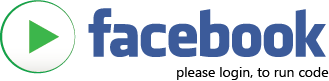
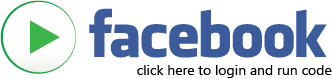
error fixing

diff --git a/app.js b/app.js
@@ -246,6 +246,10 @@ app.get('/logout', function(req, res) {
     }
 });
 
+app.get("/loading", function(req, res) {
+	res.send("Loading ...");
+});
+
 var handleLoginReturn = function(req, res) {
 
 	var recoverProjId = (req.session || {}).recoverProjId;
@@ -332,28 +336,6 @@ app.get('/user/:email', function(req, res, next) {
     });
 });
 
-app.get('/:id', function(req, res, next) {
-    //render user portal or ide
-
-    var projList = req.headers["x-vcap_projects"] ? req.headers["x-vcap_projects"].split(",") : [];
-    var isOwner = (projList.indexOf(req.params.id) >= 0);
-
-    AppChecker.activateApp(req.params.id, function(proj) {
-        if(proj && proj.getAuthorName() !== "Unknown") {
-	
-            Editor.getIndex(proj, isOwner, req.user, function(err, index) {
-                if(err) {
-                    console.log(err);
-                    res.send(500);
-                } else {
-                    res.end(index);
-                }
-            });
-        } else {
-            res.send(500);
-        }
-    });
-});
 
 app.post("/title/:projectId", function(req, res, next) {	
     var projList = req.headers["x-vcap_projects"] ? req.headers["x-vcap_projects"].split(",") : [];
@@ -470,16 +452,20 @@ app.get('/fork/:projectId', function(req, res, next) {
                     console.log(err);
                     res.send(500);
                 } else {
+			console.log(req.headers);
                     var projList = req.headers["x-vcap_projects"] ? req.headers["x-vcap_projects"].split(",") : [];
                     projList.push(proj.getId());
                     AppChecker.addActiveApp(proj);
-    		
+    		   // console.log(projList);	
                     res.setHeader("Set-Cookie", "INITME=," + projList.join(","));
                     res.writeHead(200);
+		    
                     res.end(JSON.stringify({
                         projectId : proj.getId(),
                         appUrl : proj.getUrl()
                     }));
+		    
+			console.log("ending");
                 }
             }
         });
@@ -493,24 +479,59 @@ app.get('/fork/:projectId', function(req, res, next) {
 
 });
 
-app.get('/php/:projectUrl', function(req, res, next) {
+app.get('/:id/*', function(req, res, next) {
     //render user portal or ide
 
     var projList = req.headers["x-vcap_projects"] ? req.headers["x-vcap_projects"].split(",") : [];
     var isOwner = (projList.indexOf(req.params.id) >= 0);
 
-    AppChecker.activateApp(req.params.projectUrl, function(proj) {
-        if(proj) {
-            Editor.getIndex(proj, isOwner, req.user, function(err, index) {
+    AppChecker.activateApp(req.params.id, function(proj) {
+        if(proj && proj.getAuthorName() !== "Unknown") {
+		
+	     if (req.url.indexOf(proj.getProjectUrl()) < 0) {
+		 res.redirect("/" + proj.getProjectUrl());
+	     }
+	     else {
+              Editor.getIndex(proj, isOwner, req.user, function(err, index) {
                 if(err) {
                     console.log(err);
-                    next(500);
+                    res.send(500);
                 } else {
                     res.end(index);
                 }
-            });
+              });
+	     }
         } else {
-            next(500);
+            res.send(500);
+        }
+    });
+});
+
+
+app.get('/:id', function(req, res, next) {
+    //render user portal or ide
+
+    var projList = req.headers["x-vcap_projects"] ? req.headers["x-vcap_projects"].split(",") : [];
+    var isOwner = (projList.indexOf(req.params.id) >= 0);
+
+    AppChecker.activateApp(req.params.id, function(proj) {
+        if(proj && proj.getAuthorName() !== "Unknown") {
+		
+	     if (req.url.indexOf(proj.getProjectUrl()) < 0) {
+		 res.redirect("/" + proj.getProjectUrl());
+	     }
+	     else {
+              Editor.getIndex(proj, isOwner, req.user, function(err, index) {
+                if(err) {
+                    console.log(err);
+                    res.send(500);
+                } else {
+                    res.end(index);
+                }
+              });
+	     }
+        } else {
+            res.send(500);
         }
     });
 });

diff --git a/view/editor.html b/view/editor.html
@@ -156,10 +156,10 @@ olark.identify('5621-433-10-9060');/*]]>{/literal}*/</script>
                     oauthSession = new document.FacebookOAuth();
                     $("body").bind("oauthLogin", function(e, token) {
 			   window.accessToken = token;
-			   $("#appFrame").attr("src", "http://" + document.appUrl + "/?token=" + window.accessToken);
                         projectSession.setState("active");
                     });
                     $("body").bind("oauthLogout", function(e) {
+			   $("#appFrame").attr("src", "http://" + document.domain + "/loading");
                         projectSession.setState("oauth");
                     });
                 } 
@@ -174,6 +174,7 @@ olark.identify('5621-433-10-9060');/*]]>{/literal}*/</script>
                     projectSession.setState("vmActive");
                 });
                 $("body").bind("vmDisconnected", function(e) {
+		      $("#appFrame").attr("src", "http://" + document.domain + "/loading");
                     projectSession.setState("vmInactive");
                 });
                 
@@ -464,7 +465,7 @@ olark.identify('5621-433-10-9060');/*]]>{/literal}*/</script>
                                 </div>
                             </div>
 				
-                            <iframe id="appFrame" width="100%" height="100%" frameBorder="0">
+                            <iframe id="appFrame" width="100%" height="100%" src="/loading" frameBorder="0">
                             </iframe>
                    		</div>
                         <div class="browser-south">

diff --git a/projects/Model.js b/projects/Model.js
@@ -18,9 +18,8 @@ function randomString(string_length, chars) {
 
 Project = new Schema({
   'projectId': {type: String, index: { unique: true }}, 
-  'projectTitle': {type: String}, 
+  'projectTitle': {type: String, validate: /^([a-z][\w]*[\s]?)+$/i}, 
   'subTitle': {type: String}, 
-  'projectUrl': {type: String, index: { unique: true }}, 
   'root': String, //where was this project cloned from?
   'namespace': String, //either null or userId
   'framework': String,
@@ -38,6 +37,10 @@ Project.virtual('path').get(function() {
 });
 
 
+Project.virtual('projectUrl').get(function() {
+  return (this.projectId + "/" + this.projectTitle.replace(/\s/gi, "-").toLowerCase());
+});
+
 Project.virtual('ideBase').get(function() {
   return this.projectId;   
 });
@@ -48,14 +51,14 @@ Project.virtual('ideBase').get(function() {
 
 Project.pre('save', function(next) {
     if (!this.projectId) {
-        this.projectId = randomString(2, "abcdefghiklmnopqrstuvwxyz") +  randomString(2, "abcdefghiklmnopqrstuvwxyz0123456789"); //TODO check for collisions
+        this.projectId = 1 + randomString(5, "0123456789"); //TODO check for collisions
 	 this.url = this.projectId + "." + config.projDomain;
     }
     if (!this.projectTitle) {
-	 this.projectTitle = this.projectId;
+	 this.projectTitle = "Untitled";
     }
-    if (!this.projectUrl) {
-	 this.projectUrl = this.projectId;
+    if (!this.subTitle) {
+	 this.projectTitle = "Please add a description";
     }
     next();
 });

diff --git a/checkapps.js b/checkapps.js
@@ -30,9 +30,6 @@ module.exports = {
     addActiveApp: function(proj) {
         proj.killProject = this.removeApp;
         activeApps[proj.getId()] = proj;
-        if (proj.getId() !== proj.getProjectUrl()) {
-            activeApps[proj.getProjectUrl()] = proj;
-        }
     },
 
 
@@ -43,11 +40,7 @@ module.exports = {
         }
         else {
             var params = {};
-            if (appName.length <= 5) {//id
-                params.projectId = appName;
-            } else {
-                params.projectUrl = appName;
-            }
+            params.projectId = appName;
             params.ready = function(err, model) {
                 if(err) {
                     cb(null);
@@ -64,9 +57,6 @@ module.exports = {
     removeApp: function(proj) {
         if (activeApps[proj.getId()]) {
 		delete activeApps[proj.getId()];
-	 }
-        if (activeApps[proj.getProjectUrl()]) {
-		delete activeApps[proj.getProjectUrl()];
 	 }
     }
     

diff --git a/style/scripts/projectManagement.js b/style/scripts/projectManagement.js
@@ -25,13 +25,17 @@ document.ProjectManagement = function() {
             $("body").removeClass("inactive");
         } 
         else if (state === "oauth") {
-            $("body").removeClass("inactive");
             $("body").removeClass("oauth");
             $("body").addClass("oauth");
+            $("body").removeClass("inactive");
+
         }
         else if (state === "active") {
             self.isActive = true;
             $("body").removeClass("oauth");
+	     if (this.isVMActive) {
+		   $("#appFrame").attr("src", "http://" + document.appUrl + "/?token=" + window.accessToken);
+	     }
         }
     };
 
@@ -62,6 +66,7 @@ document.ProjectManagement = function() {
                 if(cb)
                     cb();
             });
+	     console.log(self.socketVM);
             document.logHandler.addSocket(self.socketVM);
         };
         var tryMainConnect = function() {

diff --git a/install/install.js b/install/install.js
@@ -10,7 +10,6 @@ var projects = [
 		root: "parent",
 		framework: "php",
 		proposedTitle: "Hello World",
-		proposedUrl: "hello-world",
 		subTitle: "Hello World, echoed in PHP",		
 		authorName: "Yash Kumar",
 		copyFrom: __dirname + "/php-hello-world",
@@ -21,7 +20,6 @@ var projects = [
                 framework: "php",
                 proposedTitle: "Facebook get friends",
 		subTitle: "Select and search for facebook friends using the Facebook PHP SDK",
-                proposedUrl: "facebook-friends",
 		oauth: "facebook",
                 authorName: "Yash Kumar",
                 copyFrom: __dirname + "/facebook-friends",

diff --git a/view/index.html b/view/index.html
@@ -347,7 +347,7 @@
                     
                     <div class="signUp">
                         <div class="field">
-                            <input type="text" size="16" name="u" id="u" placeholder="You're Name">
+                            <input type="text" size="16" name="u" id="u" placeholder="Your Name">
                             <div><span></span></div>
                         </div>
                         <div class="button join">

diff --git a/projects/Project.js b/projects/Project.js
@@ -132,7 +132,6 @@ var Project = function(args) {
             var proj = new model({
                 "projectTitle" : args.proposedTitle || null,
                 "subTitle" : args.subTitle || null,
-                "projectUrl" : args.proposedUrl || null,
 		  "authorName": args.authorName,
 		  "oauth": args.oauth || "",
                 "root" : args.clone || args.framework,

diff --git a/style/scripts/facebook_oauth.js b/style/scripts/facebook_oauth.js
@@ -43,6 +43,7 @@ document.FacebookOAuth = function() {
     this.fbLoginStatus = function(response) {
 	     var self = this;
 	     console.log(response);
+
             if(response.status === "connected") {
                 self.handleLoginState(true, response.authResponse.accessToken);
             } else {

diff --git a/style/scripts/logger.js b/style/scripts/logger.js
@@ -24,9 +24,8 @@ var Logger = function(uiPane) {
 		isNow: true
     	});
 
-	if (!$("body").hasClass("inactive")) {
-		$("body").trigger("vmDisconnected", []);
-	}
+	$("body").trigger("vmDisconnected", []);
+
     };
 
     this.clear = function() {
